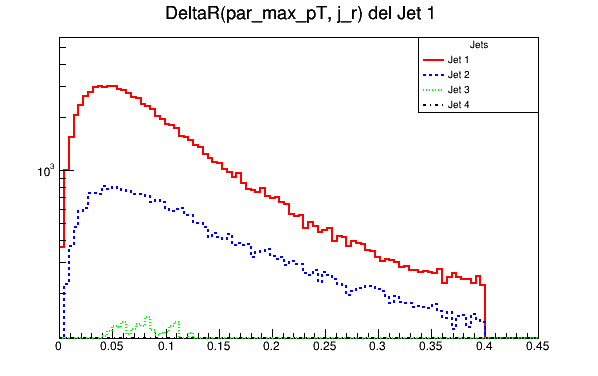
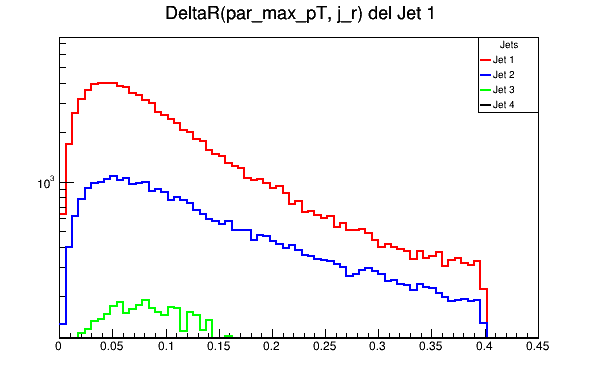
Hist2d

diff --git a/Tomas_code/asas.cpp b/Tomas_code/asas.cpp
@@ -359,25 +359,6 @@ void graphsTree()
         hR95PercentPT[i]->SetLineWidth(2);
     }
 
-    // Añadir los histogramas 2D para cada jet
-    TH2F *hCumulativePT_vs_DeltaR[4];
-    for (int i = 0; i < 4; i++) {
-        hCumulativePT_vs_DeltaR[i] = new TH2F(Form("hCumulativePT_vs_DeltaR%d", i+1),
-                                            Form("DeltaR vs Porcentaje acumulado de pT del Jet %d", i+1),
-                                            50, 0, 0.4,    // Eje X: DeltaR (0 - 0.4)
-                                            50, 0, 1.0);   // Eje Y: Porcentaje acumulado de pT (0% - 100%)
-
-
-        // Asigna un color único a cada histograma
-        if(i == 0) hCumulativePT_vs_DeltaR[i]->SetLineColor(kRed);
-        else if(i == 1) hCumulativePT_vs_DeltaR[i]->SetLineColor(kBlue);
-        else if(i == 2) hCumulativePT_vs_DeltaR[i]->SetLineColor(kGreen);
-        else if(i == 3) hCumulativePT_vs_DeltaR[i]->SetLineColor(kBlack);
-
-        // Opcional: Establece el grosor de la línea
-        hCumulativePT_vs_DeltaR[i]->SetLineWidth(2);
-    }
-
     cout << "Entries: " << nentries << endl;
 
     Int_t nTen = nentries / 10; // Para imprimir el porcentaje de avance
@@ -550,41 +531,6 @@ void graphsTree()
             hDeltaRMaxDR[i]->Fill(deltaRMaxDR);
             hDeltaRMinDR[i]->Fill(deltaRMinDR);
             hPTDifference[i]->Fill(ptDifference);
-
-            // Añadir el cálculo para el histograma 2D aquí
-            std::vector<std::pair<double, double>> deltaR_pT_pairs;
-
-            // Obtener las partículas asociadas al jet y calcular DeltaR y pT
-            double totalJetPT = 0.0;
-            for (Int_t j = 0; j < t.Particle_size; j++) {
-                TLorentzVector particleVector;
-                particleVector.SetPtEtaPhiM(t.Particle_PT[j], t.Particle_Eta[j], t.Particle_Phi[j], t.Particle_Mass[j]);
-
-                double deltaR = jetVector.DeltaR(particleVector);
-                if (deltaR < 0.4) { // Partículas dentro del jet
-                    deltaR_pT_pairs.push_back(std::make_pair(deltaR, particleVector.Pt()));
-                    totalJetPT += particleVector.Pt();
-                }
-            }
-
-            // Verificar que totalJetPT no sea cero para evitar divisiones por cero
-            if (totalJetPT == 0.0) continue;
-
-            // Ordenar las partículas por DeltaR
-            std::sort(deltaR_pT_pairs.begin(), deltaR_pT_pairs.end());
-
-            // Calcular el porcentaje acumulado de pT y llenar el histograma 2D
-            double cumulativePT = 0.0;
-            for (const auto& pair : deltaR_pT_pairs) {
-                cumulativePT += pair.second; // Sumar el pT de la partícula
-                double cumulativePTFraction = cumulativePT / totalJetPT; // Porcentaje acumulado de pT
-                double deltaR = pair.first;
-
-                // Llenar el histograma 2D
-                // Llenar el histograma 2D con ejes intercambiados
-                hCumulativePT_vs_DeltaR[i]->Fill(deltaR, cumulativePTFraction);
-
-            }
         }
 
         // R para 50% del pT total del jet
@@ -709,7 +655,7 @@ void graphsTree()
 
     TCanvas *cRPar = new TCanvas("cRPar", "R entre la primeras 4 parejas de jets", 600, 400);
     gStyle->SetOptStat(0); // Desactiva la caja de estadísticas para todos los histogramas
-    gPad->SetLogy(); // Escala logarítmica en el eje y
+    //gPad->SetLogy(); // Escala logarítmica en el eje y
     hDeltaRPar[0]->Draw(); // Dibuja el primer histograma
     for (int i = 1; i < 6; i++) {
         hDeltaRPar[i]->Draw("SAME"); // Superpone los siguientes histogramas
@@ -979,22 +925,6 @@ void graphsTree()
         legendR95->AddEntry(hR95PercentPT[i], Form("Jet %d", i+1), "l");
     }
     legendR95->Draw();
-
-    for (int i = 0; i < 4; i++) {
-        TCanvas *cCumulativePT_vs_DeltaR = new TCanvas(Form("cCumulativePT_vs_DeltaR%d", i+1),
-                                                    Form("Porcentaje acumulado de pT vs DeltaR del Jet %d", i+1),
-                                                    600, 400);
-
-        // Dibujar el histograma 2D
-        hCumulativePT_vs_DeltaR[i]->GetXaxis()->SetTitle("#DeltaR");
-        hCumulativePT_vs_DeltaR[i]->GetYaxis()->SetTitle("Porcentaje acumulado de pT");
-        hCumulativePT_vs_DeltaR[i]->Draw("COLZ");
-
-
-        // Guardar el histograma
-        cCumulativePT_vs_DeltaR->Print(Form("plots/CumulativePT_vs_DeltaR_Jet%d.png", i+1));
-    }
-
 
     // Guardar los histogramas en un archivo
     cJets->Print("plots/JetsPerEvent.png");

diff --git a/Tomas_code/MyClass.h b/Tomas_code/MyClass.h
@@ -1,6 +1,6 @@
 //////////////////////////////////////////////////////////
 // This class has been automatically generated on
-// Fri Sep  6 08:00:01 2024 by ROOT version 6.30/06
+// Tue Sep 10 21:37:45 2024 by ROOT version 6.30/06
 // from TChain Delphes/
 //////////////////////////////////////////////////////////
 
